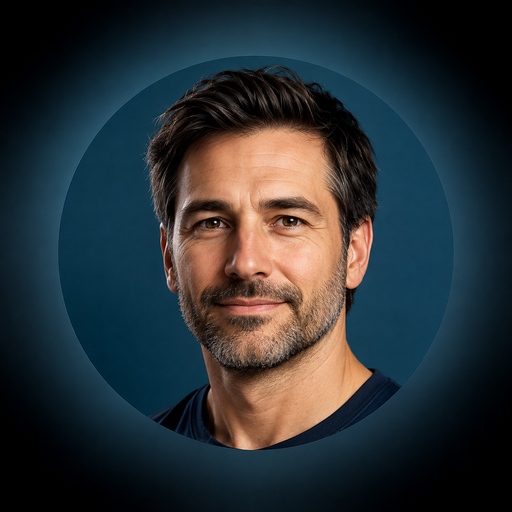
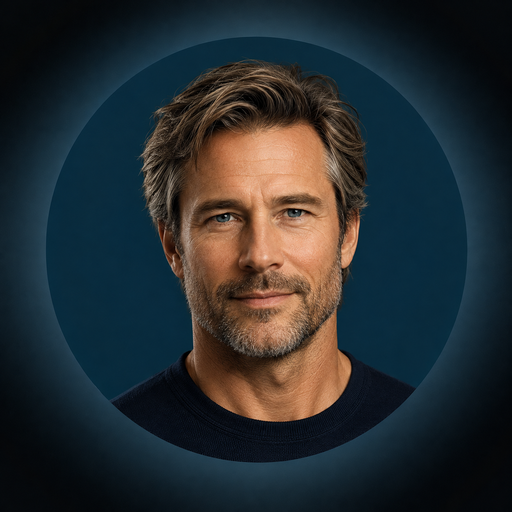
Add files via upload

diff --git a/app.js b/app.js
@@ -11,7 +11,7 @@ const COACHES = {
 };
 const ORDER = Object.keys(COACHES);
 const SPECIALISTS = ORDER.filter(id=>id!=="viktor"); // v43: Viktor ist der Kern, diese 5 umkreisen ihn
-const AVV="?v=61"; // Avatar-Cache-Bust (früh definiert, da loadAvatars zeitig läuft)
+const AVV="?v=62"; // Avatar-Cache-Bust (früh definiert, da loadAvatars zeitig läuft)
 
 const DEMO = {
   recovery: 64, sleep:"5 h 40 min", hrv:"38 ms",
@@ -812,18 +812,20 @@ function flyOpen(id, srcEl){
   orbBg(cl,id);
   document.body.appendChild(cl);
   const call=document.getElementById("call");
-  call.classList.add("noslide");        // Container nicht einfliegen lassen → bigorb sofort an Endposition
+  call.classList.add("noslide","incoming");   // Container nicht einfliegen; großen Orb verstecken, bis der Klon gelandet ist
   openCall(id);
-  // echte Endposition des großen Orbs messen und den Klon exakt dorthin fliegen (kein Nachjustieren mehr)
+  // echte Endposition des großen Orbs messen und den Klon exakt dorthin fliegen (kein Doppelbild)
   requestAnimationFrame(()=>{
     const bo=document.getElementById("bigorb"); const b=bo?bo.getBoundingClientRect():null;
-    if(!b||!b.width){ try{cl.remove();}catch(e){} call.classList.remove("noslide"); return; }
+    if(!b||!b.width){ try{cl.remove();}catch(e){} call.classList.remove("noslide","incoming"); return; }
     requestAnimationFrame(()=>{
       cl.style.left=b.left+"px"; cl.style.top=b.top+"px";
       cl.style.width=b.width+"px"; cl.style.height=b.height+"px"; cl.style.fontSize="54px";
     });
   });
-  setTimeout(()=>{ try{cl.remove();}catch(e){} call.classList.remove("noslide"); }, 560);
+  // beim Landen: großen Orb einblenden und Klon im selben Moment entfernen → deckungsgleich, kein Sprung
+  setTimeout(()=>{ call.classList.remove("incoming"); }, 470);
+  setTimeout(()=>{ try{cl.remove();}catch(e){} call.classList.remove("noslide"); }, 540);
 }
 function orbitSay(coachId,title,html,target){
   const m=document.getElementById("orbitmsg"); if(!m) return;
@@ -922,7 +924,17 @@ function ping(coachId,title,body,target){
   if(navigator.vibrate) navigator.vibrate(60);
   setTimeout(hideToast, 9000);
 }
-function hideToast(){ document.getElementById("toast").classList.remove("show"); }
+function hideToast(){ const t=document.getElementById("toast"); if(t){ t.classList.remove("show"); t.style.transform=""; } }
+/* Nachricht nach oben wegwischen */
+(function(){
+  const t=document.getElementById("toast"); if(!t) return;
+  let sy=0, dy=0, dragging=false, moved=false;
+  t.addEventListener("touchstart",e=>{ if(!t.classList.contains("show"))return; sy=e.touches[0].clientY; dy=0; moved=false; dragging=true; t.style.transition="none"; },{passive:true});
+  t.addEventListener("touchmove",e=>{ if(!dragging)return; dy=e.touches[0].clientY-sy; if(Math.abs(dy)>6) moved=true; if(dy<0) t.style.transform="translateY("+dy+"px)"; },{passive:true});
+  t.addEventListener("touchend",()=>{ if(!dragging)return; dragging=false; t.style.transition="";
+    if(dy<-38){ t.classList.remove("show"); t.style.transform=""; } else { t.style.transform=""; } });
+  t.addEventListener("click",e=>{ if(moved){ e.stopPropagation(); e.preventDefault(); moved=false; } }, true);
+})();
 
 const MISSIONS={
   viktor:"Hält das große Ganze — priorisiert, koordiniert und löst Zielkonflikte im Team.",

diff --git a/index.html b/index.html
@@ -226,7 +226,8 @@ h2{font-size:11px;font-weight:600;color:var(--text3);letter-spacing:.2em;text-tr
 #teamrow .orb.activeSpk{opacity:1;transform:scale(1.32);z-index:3;box-shadow:0 8px 30px var(--spk,rgba(0,0,0,.18))}
 #callcenter{position:relative;z-index:2;display:flex;flex-direction:column;align-items:center;padding-top:2.5vh;flex-shrink:0}
 #bigorbwrap{position:relative;width:190px;height:190px;display:flex;align-items:center;justify-content:center}
-#bigorb{width:156px;height:156px;font-size:54px;transition:background .5s ease,box-shadow .5s ease;z-index:2}
+#bigorb{width:156px;height:156px;font-size:54px;transition:background .5s ease,box-shadow .5s ease,opacity .28s ease;z-index:2}
+#call.incoming #bigorb{opacity:0}
 .ringp{position:absolute;inset:0;border-radius:50%;border:1.5px solid var(--ring,rgba(0,0,0,.2));opacity:0;z-index:1}
 #call.speaking .ringp{animation:ringpulse 1.6s ease-out infinite}
 #call.speaking .ringp.r2{animation-delay:.55s}
@@ -473,14 +474,14 @@ h2{font-size:11px;font-weight:600;color:var(--text3);letter-spacing:.2em;text-tr
     <div class="hint fx fx-up" style="--d:.5s"><b>Eigene Portraits:</b> Sechs Bilder als avatars/viktor.png … mara.png neben die App legen.</div>
   </div>
 
-  <div class="quiet">🌙 Ruhezeit 22:00 – 6:30 · Version 61</div>
+  <div class="quiet">🌙 Ruhezeit 22:00 – 6:30 · Version 62</div>
 </div>
 
 <div id="pills"><div class="inner">
   <button class="pillbtn tabactive" data-v="home">Heute</button>
-  <button class="pillbtn" data-v="coaches">Coaches</button>
   <button class="pillbtn" data-v="runde">Runde</button>
   <button class="pillbtn" data-v="tag">Tag</button>
+  <button class="pillbtn" data-v="coaches">Coaches</button>
   <button class="pillbtn" data-v="log">Log</button>
 </div></div>
 
@@ -614,6 +615,6 @@ h2{font-size:11px;font-weight:600;color:var(--text3);letter-spacing:.2em;text-tr
 
 <div id="toast"><div class="t-inner" id="toastinner"></div></div>
 
-<script src="app.js?v=61"></script>
+<script src="app.js?v=62"></script>
 </body>
 </html>

diff --git a/sw.js b/sw.js
@@ -1,4 +1,4 @@
-const CACHE = "coach-hub-v61";
+const CACHE = "coach-hub-v62";
 const ASSETS = ["./", "index.html", "app.js", "manifest.webmanifest"];
 self.addEventListener("install", e => {
   e.waitUntil(caches.open(CACHE).then(c => c.addAll(ASSETS)).then(() => self.skipWaiting()));
